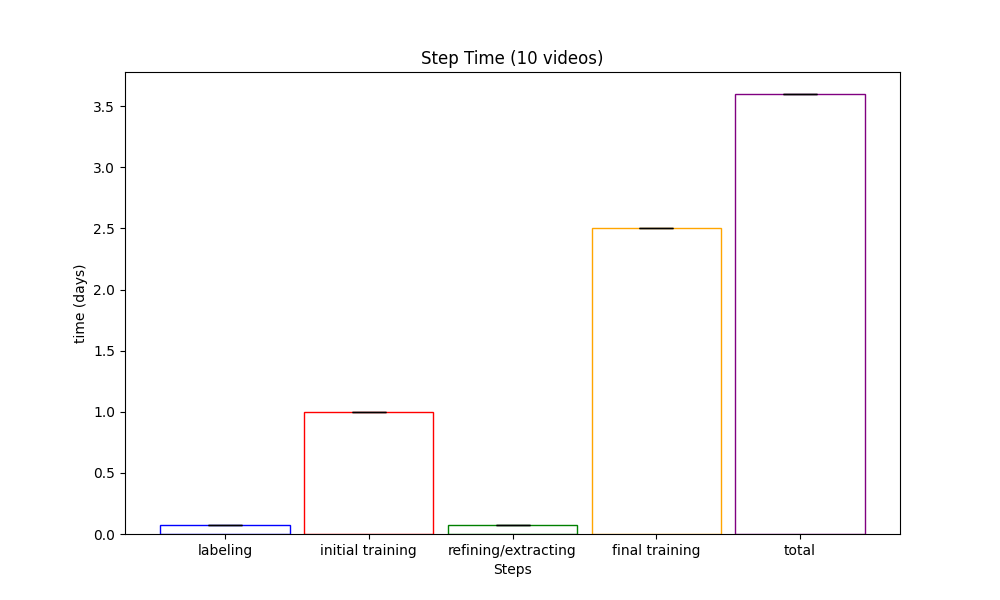
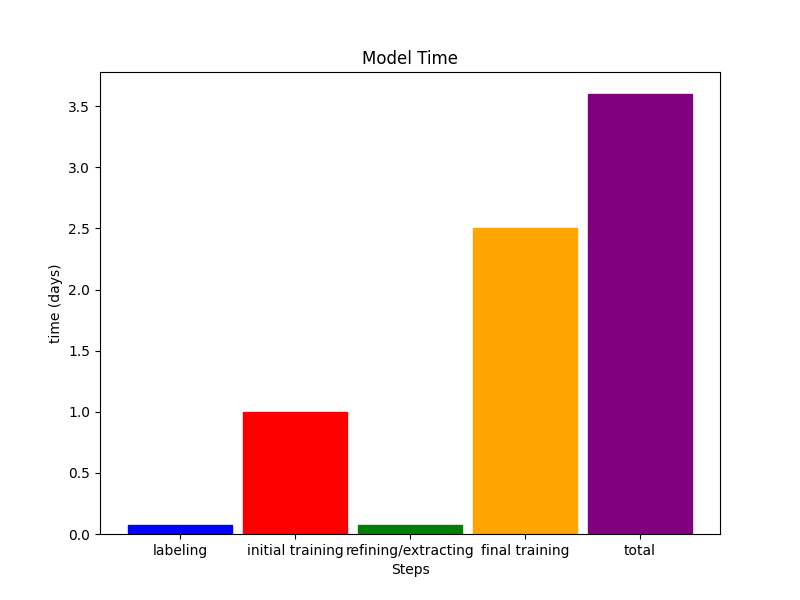
DLC update

diff --git a/DeepLabCut/DLC_jump_analysis/all_trackers/time_performance.py b/DeepLabCut/DLC_jump_analysis/all_trackers/time_performance.py
@@ -1,33 +1,50 @@
-import csv
 import pandas as pd
 import matplotlib.pyplot as plt
 from pathlib import Path
 import numpy as np
 import os
-import time_breakdown
- 
-def time_per(fname):
+
+def time_per(fname1, fname2):
     w = .9
     x = [1, 2, 3, 4, 5]
+    one_animal_model = np.array([.07, 1, .07, 2.5, 3.6]) #time of steps for single model construction
     colors = ['blue', 'red', 'green', 'orange', 'purple']
     #labeling: 10 min/vid --> 100 min (10 vids) --> 1.7 hrs --> .07 days
     #initial training: 1440 min = 24 hrs training --> 1 day
     #refine/extract outlier frames: 10 min/vid --> 100 min (10 vids) --> 1.7 hrs --> .07 days
     #final training: 3600 --> 60 hrs -->  2.5 days
     #total time: 87.4 hrs --> 3.6 days
+
     #(3.6 days x 24 hrs/day) / (6 hrs/day) = 14 days
 
-    one_animal_model  = time_breakdown.y
+    #First graph: Steps and time involved in constructing a single model 
+    plt.bar(x, 
+           one_animal_model,
+           width=w,
+           tick_label=["labeling", "initial training", "refining/extracting", "final training", "total"],
+           color=colors,
+           edgecolor=colors,
+           )
+
+    plt.title("Model Time")
+    plt.xlabel("Steps")
+    plt.ylabel("time (days)")
+
+    current_dir = os.getcwd()
+    os.chdir(current_dir + '/saved_figs')
+
+    figure = plt.gcf()
+    figure.set_size_inches(8, 6)
+    plt.savefig(fname1, dpi=100)
+    plt.show()
+    plt.close()
+
+    #Second graph: Time to build 5 models corresponding to 5 animals 
     total_time_one_animal = one_animal_model[4]
-    print(total_time_one_animal)
     two_animal_models = np.multiply(total_time_one_animal, 2)
-    print(two_animal_models)
     three_animal_models = np.multiply(total_time_one_animal, 3)
-    print(three_animal_models)
     four_animal_models = np.multiply(total_time_one_animal, 4)
-    print(four_animal_models)
     five_animal_models = np.multiply(total_time_one_animal, 5)
-    print(five_animal_models)
     y = total_time_one_animal, two_animal_models, three_animal_models, four_animal_models, five_animal_models
 
     fig, ax = plt.subplots()
@@ -39,14 +56,14 @@ def time_per(fname):
        plt.text(i+.1, j-.2, '({})'.format(j))
 
     current_dir = os.getcwd()
-    plt.title("Total Time of Model Construction (10 videos)")
+    plt.title("Model Time (10 videos)")
     plt.xlabel("# of animals/models")
     plt.ylabel("time (days)")
     #os.chdir(current_dir + '/saved_figs')
     figure = plt.gcf()
     figure.set_size_inches(10, 6)
-    plt.savefig(fname, dpi=100)
+    plt.savefig(fname2, dpi=100)
     plt.show()
     plt.close()
 
-time_per("time_per.png")
+time_per("time_steps.png", "time_per.png")

diff --git a/DeepLabCut/DLC_jump_analysis/all_trackers/time_breakdown.py b/DeepLabCut/DLC_jump_analysis/all_trackers/time_breakdown.py
@@ -11,38 +11,24 @@ def time_details(fname):
     w = .9
     x = [1, 2, 3, 4, 5]
     colors = ['blue', 'red', 'green', 'orange', 'purple']
-    #labeling: 10 min/vid --> 100 min (10 vids) --> 1.7 hrs --> .07 days
-    #initial training: 1440 min = 24 hrs training --> 1 day
-    #refine/extract outlier frames: 10 min/vid --> 100 min (10 vids) --> 1.7 hrs --> .07 days
-    #final training: 3600 --> 60 hrs -->  2.5 days
-    #total time: 87.4 hrs --> 3.6 days
-
-    #(3.6 days x 24 hrs/day) / (6 hrs/day) = 14 days
-    one_animal_model = np.array([.07, 1, .07, 2.5, 3.6])
-    two_animal_models = np.multiply(y, 2)
-    three_animal_models = np.multiply(y, 3)
-    four_animal_models = np.multiply(y, 4)
-    five_animal_models = np.multiply(y, 5)
 
     fig, ax = plt.subplots()
-    ax.bar(x,
-           height=[np.mean(yi) for yi in y],
-           yerr=[np.std(yi) for yi in y], 
-           capsize=12, 
+    ax.bar(x, y,
            width=w,
            tick_label=["labeling", "initial training", "refining/extracting", "final training", "total"],
-           color=(0,0,0,0),
+           color=colors,
            edgecolor=colors,
          )
 
-    
-    plt.title("Step Time (10 videos)")
+    plt.title("Model Time")
     plt.xlabel("Steps")
     plt.ylabel("time (days)")
+
     current_dir = os.getcwd()
     os.chdir(current_dir + '/saved_figs')
+    
     figure = plt.gcf()
-    figure.set_size_inches(10, 6)
+    figure.set_size_inches(8, 6)
     plt.savefig(fname, dpi=100)
     plt.show()
     plt.close()

diff --git a/DeepLabCut/DLC_jump_analysis/all_trackers/jump_analysis.py b/DeepLabCut/DLC_jump_analysis/all_trackers/jump_analysis.py
@@ -1,9 +1,5 @@
-import csv
-import pathlib
 import pandas as pd
 import matplotlib.pyplot as plt
-import matplotlib.lines as mlines
-from pathlib import Path
 import numpy as np
 import os
 
